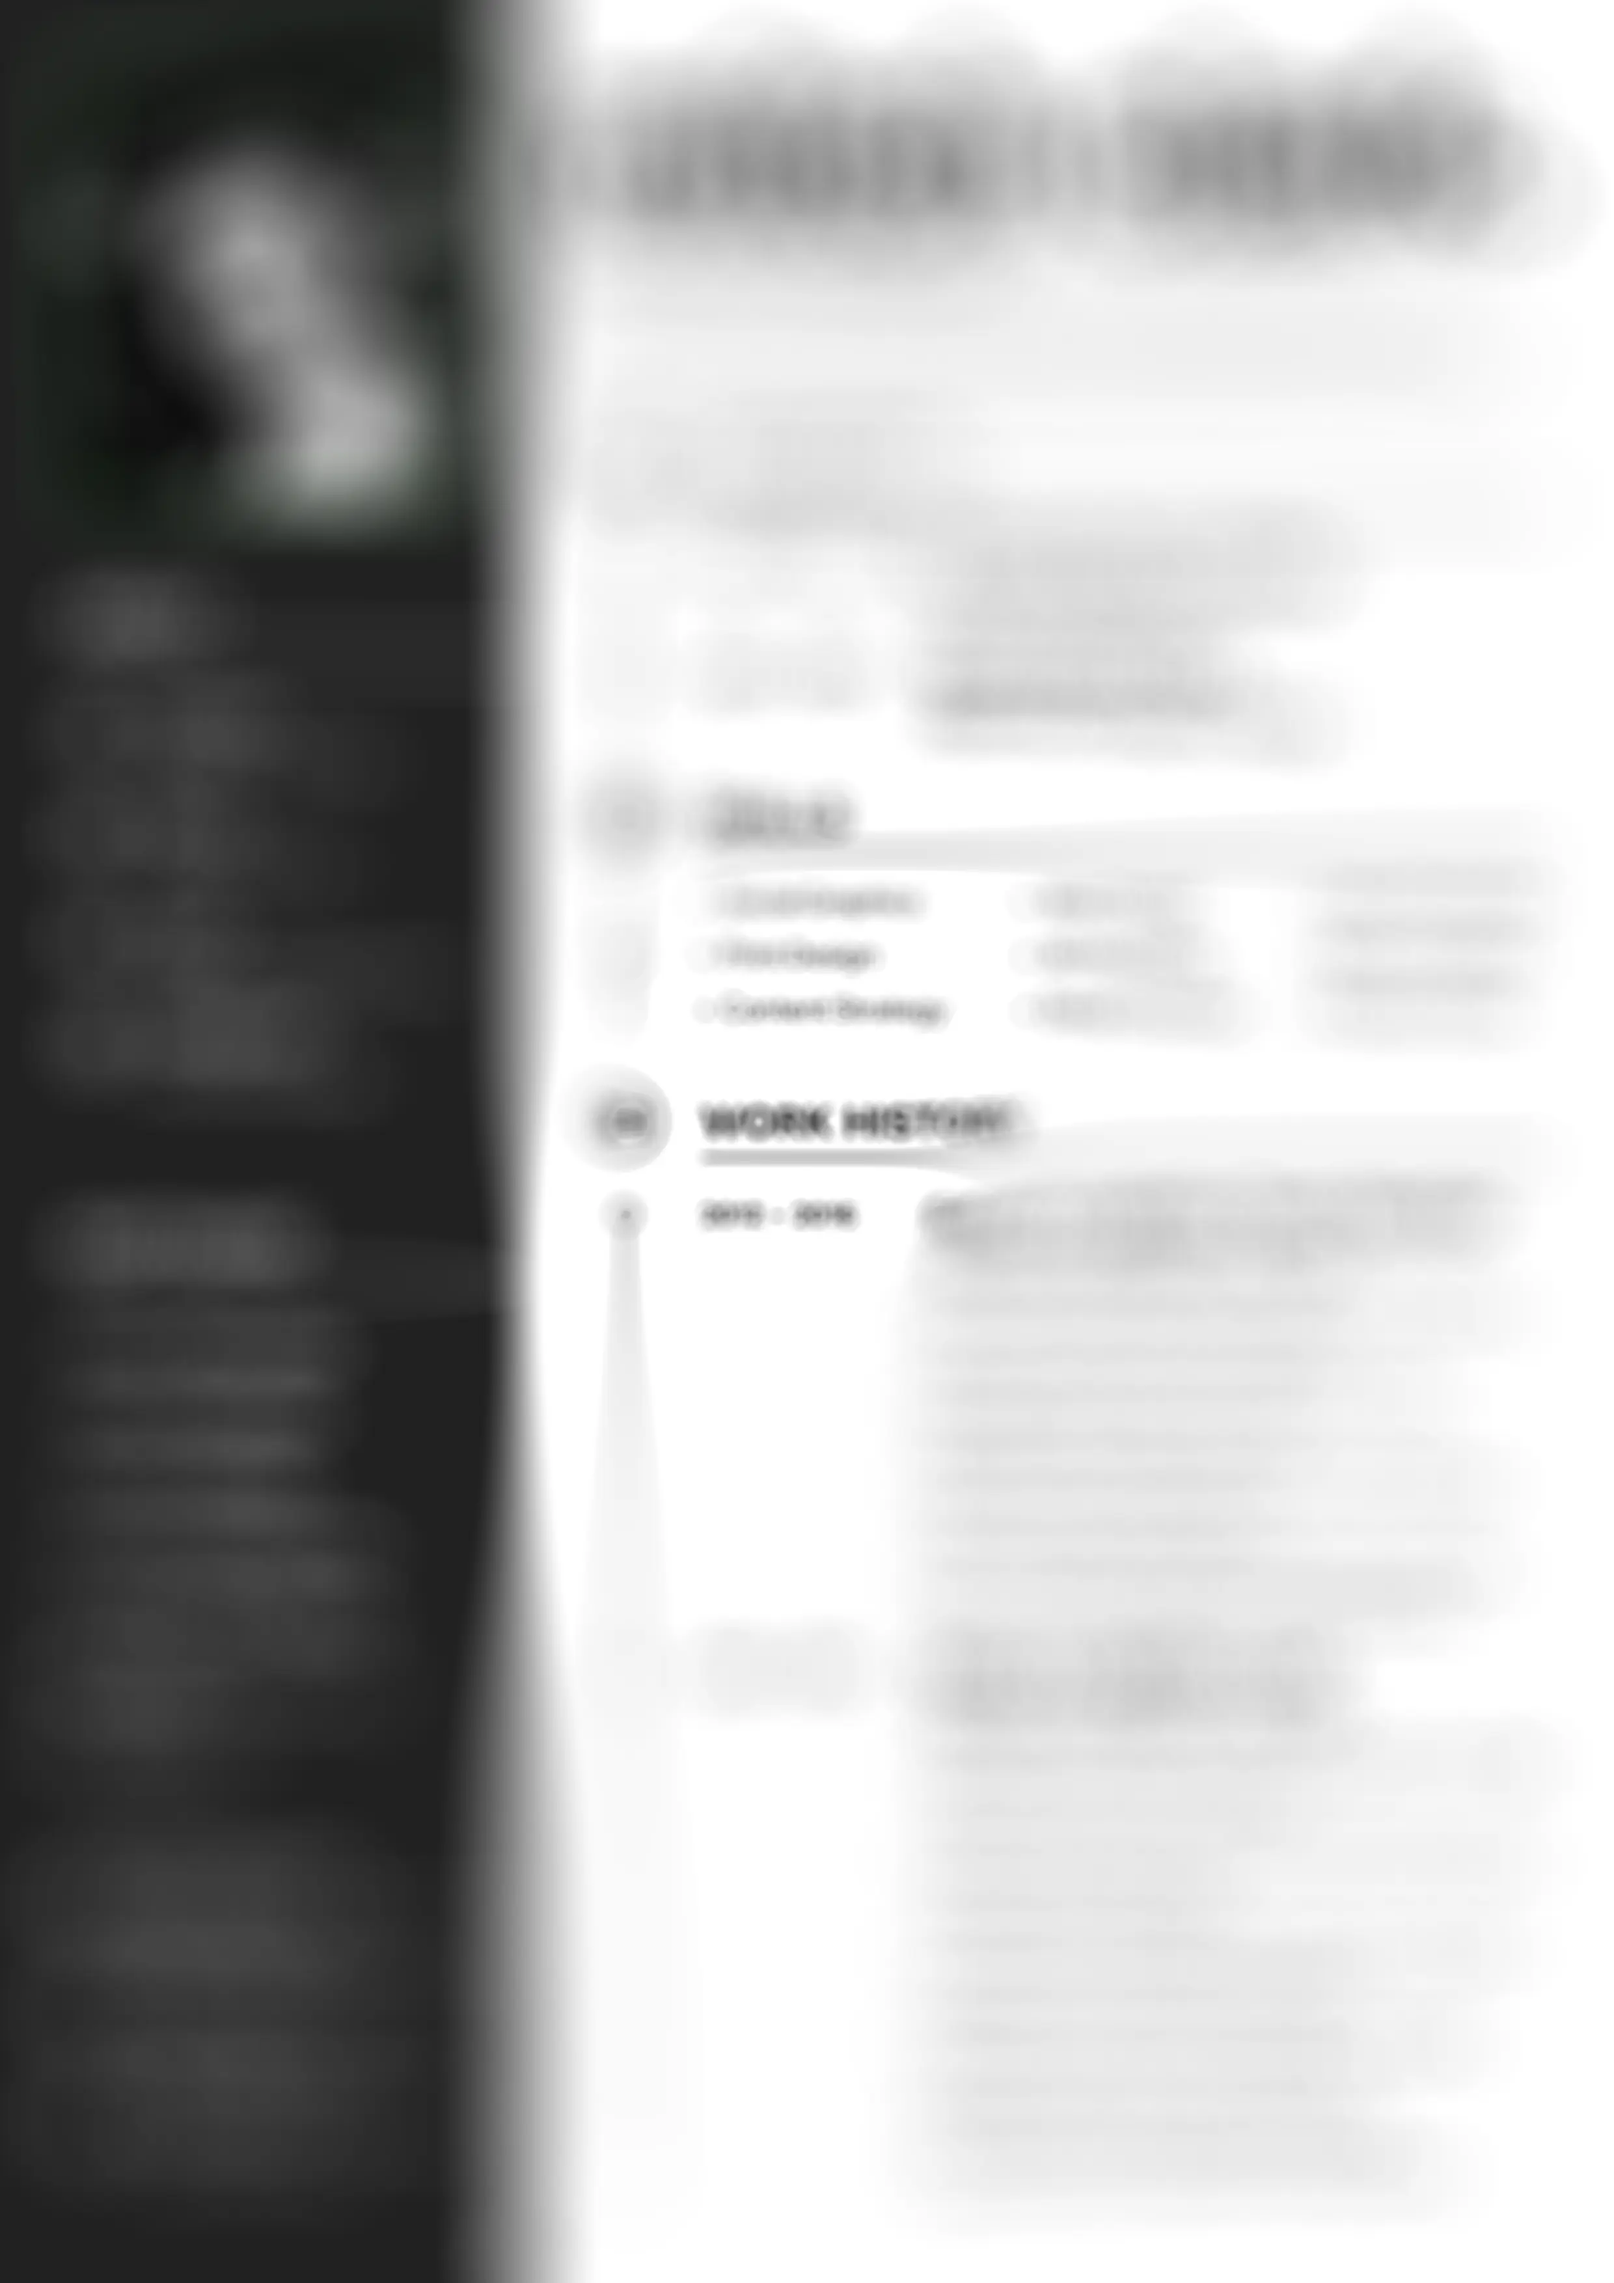
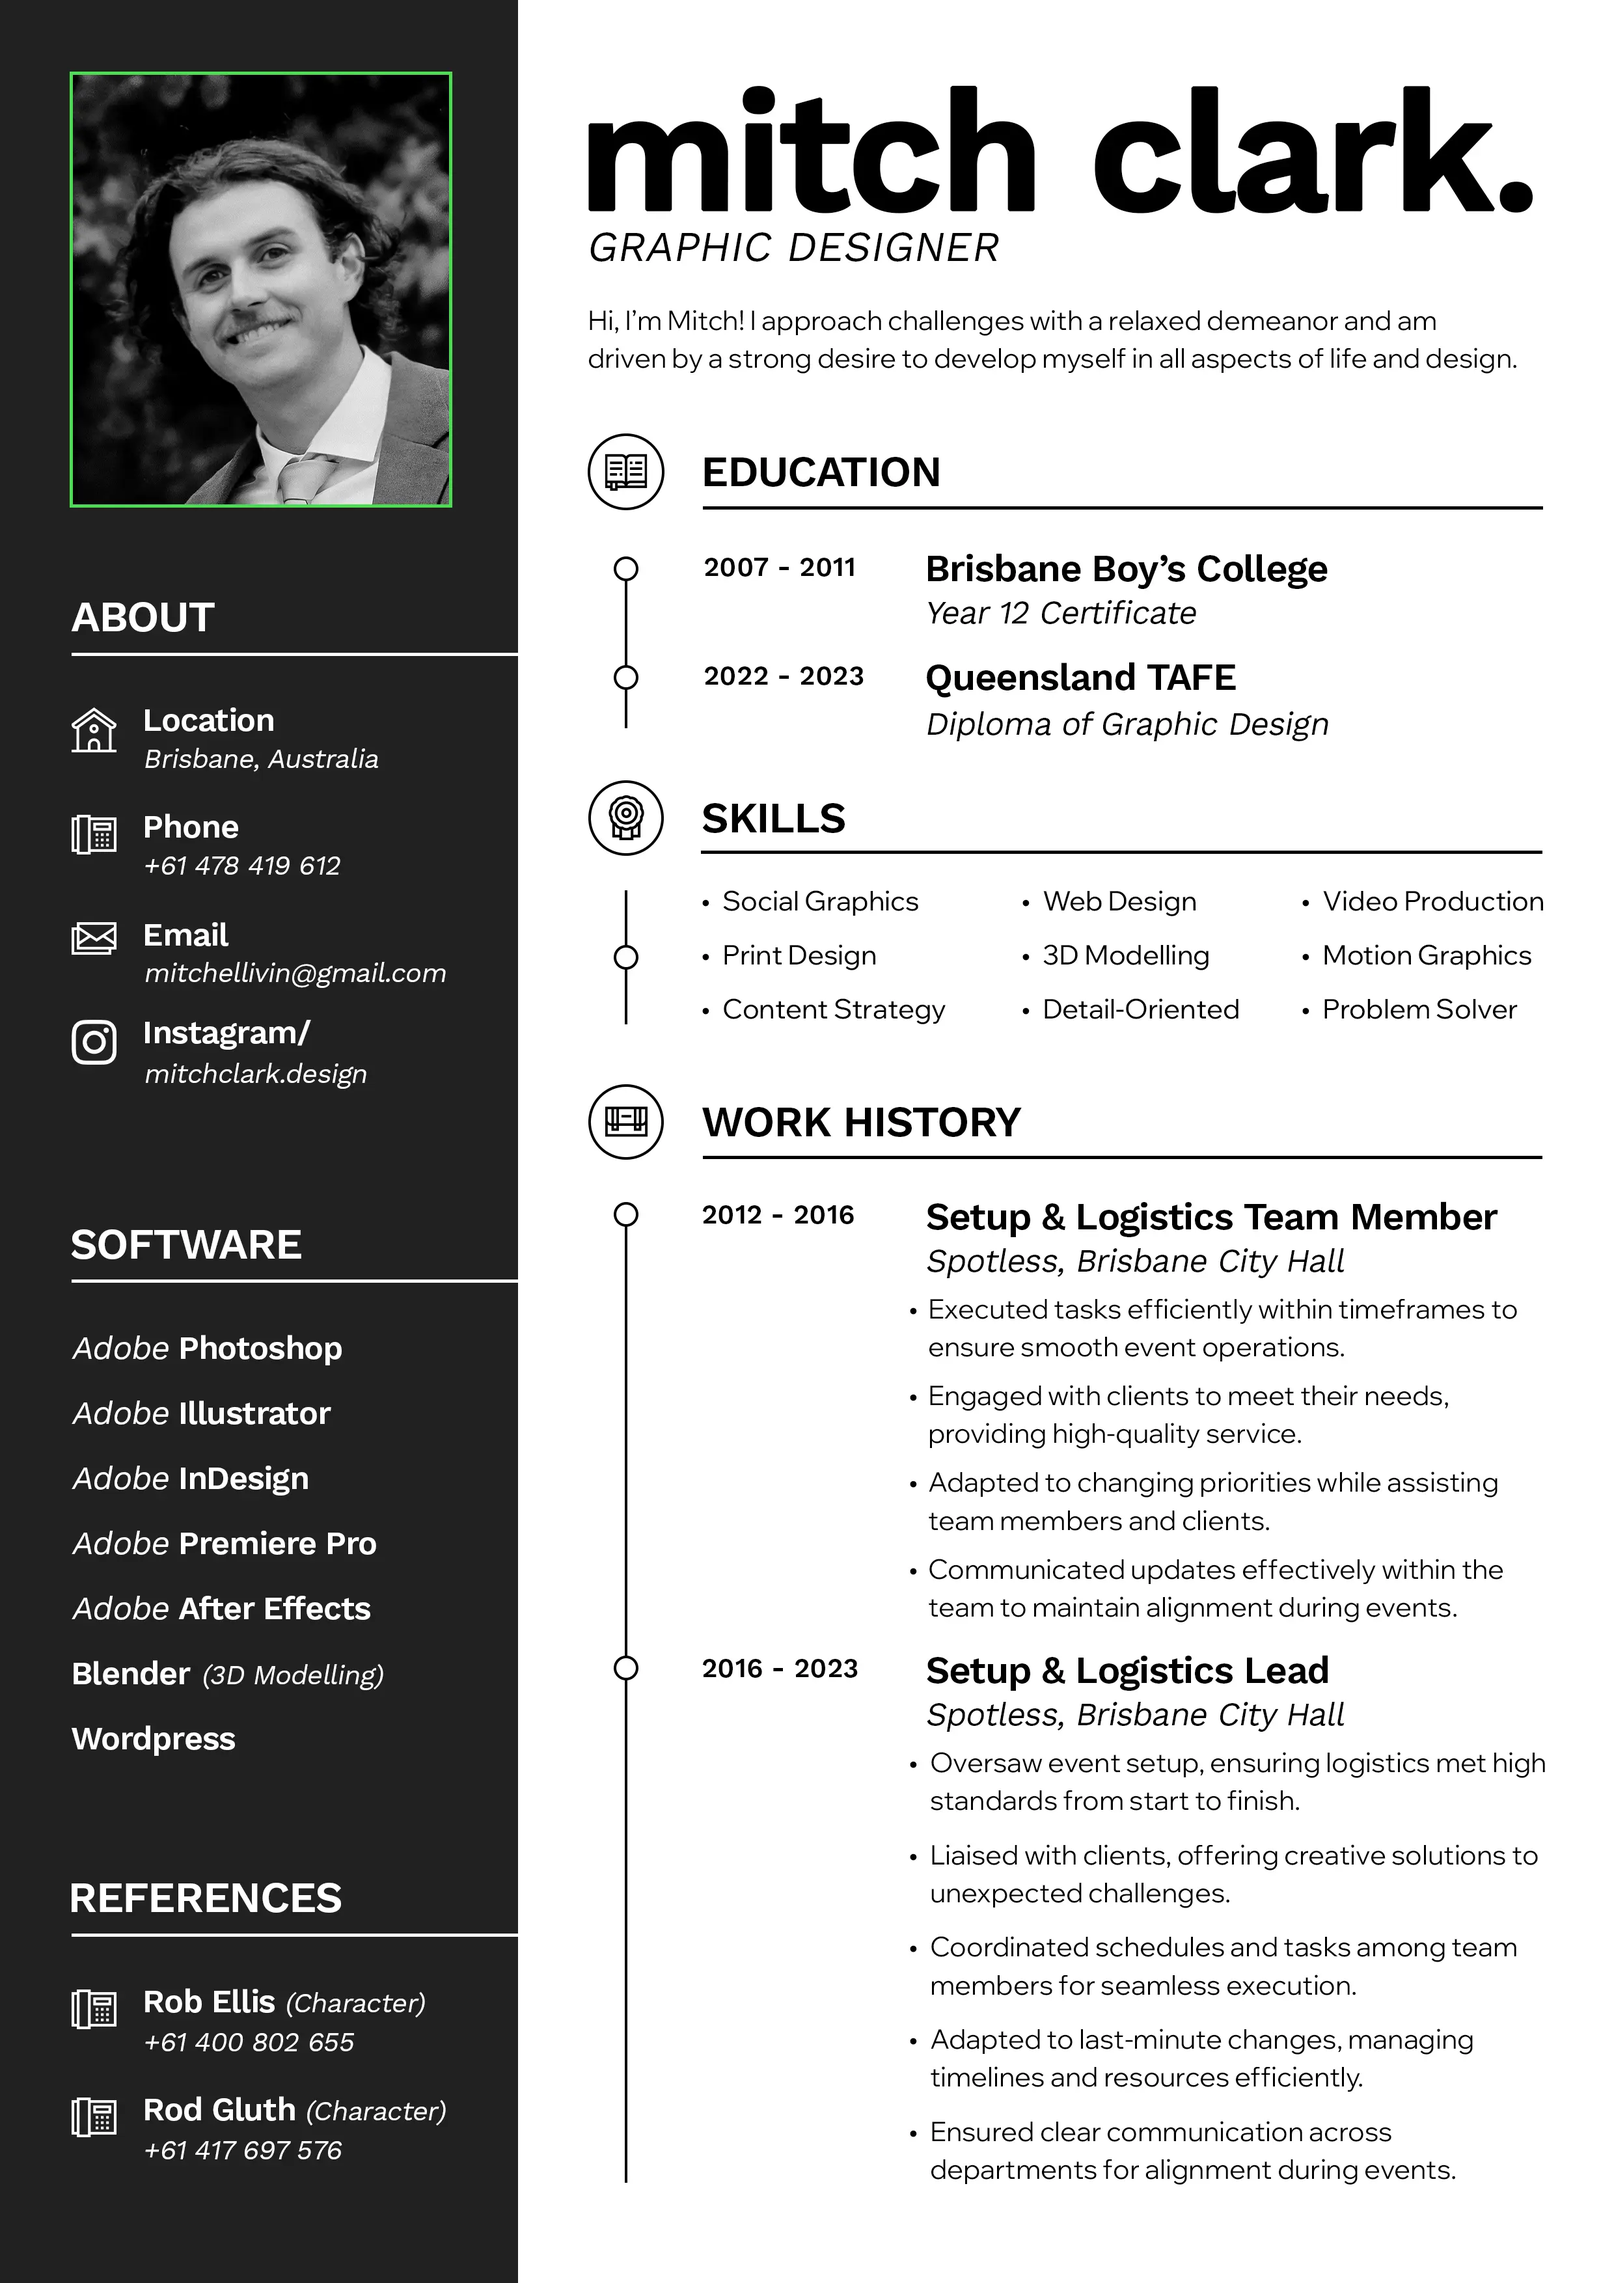
v1.0

diff --git a/src/apps/about/index.html b/src/apps/about/index.html
@@ -162,26 +162,28 @@
             <hr class="skills-divider skills-divider--between-sections">
             <h3 class="subtitle_header"><img src="../../../assets/apps/about/skills.webp" alt="Skills Icon" class="heading-icon">Skills</h3>
             <div class="skills-grid subtitle">
-              <div>Typography</div>
-              <div>Branding</div>
-              <div>Illustration</div>
-              <div>UI/UX Design</div>
-              <div>Layout Design</div>
-              <div>Color Theory</div>
-              <div>Photo Editing</div>
-              <div>Creative Direction</div>
+              <div data-software="photoshop,illustrator">Social Graphics</div>
+              <div data-software="wordpress,vscode">Web Design</div>
+              <div data-software="premierepro,aftereffects">Video Production</div>
+              <div data-software="indesign,photoshop,illustrator">Print Design</div>
+              <div data-software="blender">3D Modelling</div>
+              <div data-software="illustrator,aftereffects">Motion Graphics</div>
+              <div data-software="vscode">AI-Integrated Coding</div>
+              <div data-software="all">Detail-Oriented</div>
+              <div data-software="all">Problem Solver</div>
             </div>
             <hr class="skills-divider skills-divider--before-software">
             <h3 class="subtitle_header"><img src="../../../assets/apps/about/software.webp" alt="Software Icon" class="heading-icon">Software</h3>
             <ul class="software-grid subtitle">
-              <li>Adobe Photoshop</li>
-              <li>Adobe Illustrator</li>
-              <li>Adobe InDesign</li>
-              <li>Figma</li>
-              <li>Adobe XD</li>
-              <li>Affinity Designer</li>
-              <li>Procreate</li>
-              <li>Sketch</li>
+              <li data-software="photoshop">Photoshop</li>
+              <li data-software="illustrator">Illustrator</li>
+              <li data-software="premierepro">Premiere Pro</li>
+              <li data-software="aftereffects">After Effects</li>
+              <li data-software="indesign">InDesign</li>
+              <li>Lightroom</li>
+              <li data-software="blender">Blender</li>
+              <li data-software="vscode">VSCode</li>
+              <li data-software="wordpress">Wordpress</li>
             </ul>
           </div>
         </div>

diff --git a/src/apps/about/style.css b/src/apps/about/style.css
@@ -53,7 +53,9 @@ body {
 
 .main {
   width: 100%;
+  max-width: 700px;
   padding-left: 24px;
+  padding-top: 24px;
   box-sizing: border-box;
   position: relative;
 }
@@ -207,8 +209,11 @@ body {
 
 .main {
   width: 100%;
+  max-width: 700px;
   padding-left: 24px;
+  padding-top: 24px;
   box-sizing: border-box;
+  position: relative;
 }
 
 .left-panel-title {
@@ -279,14 +284,8 @@ body, body * {
 
 .main {
   width: 100%;
-  max-width: 100%;
-  margin: 0;
+  padding-left: 24px;
   box-sizing: border-box;
-  padding: 24px 24px 24px 24px;
-  font-family: Tahoma, Segoe UI, Verdana, Arial, sans-serif;
-  color: #fff;
-  display: flex;
-  flex-direction: column;
 }
 
 body, .scroll-content {
@@ -322,8 +321,7 @@ body, .scroll-content {
   flex-direction: row;
   gap: 20px;
   justify-content: flex-start;
-  padding-left: 0;
-  padding-right: 0;
+  padding-right: 24px;
   max-width: 100%;
   box-sizing: border-box;
 }
@@ -407,6 +405,21 @@ body, .scroll-content {
   display: block;
   margin-bottom: 0;
   overflow-wrap: break-word;
+  text-shadow: 1px 1px 0 #000, 0 0px 1px #000;
+  opacity: 1;
+  transition: opacity 0.25s, background 0.18s, border-color 0.18s, font-weight 0.13s;
+}
+
+.skills-grid > div:hover,
+.software-grid li:hover,
+.software-grid li.force-hover {
+  background: rgba(174,231,255,0.28);
+  border-color: #fff;
+  color: #fff;
+  font-weight: bold;
+  opacity: 1;
+  transition: opacity 0.25s, background 0.18s, border-color 0.18s, font-weight 0.13s;
+  cursor: default;
 }
 
 .software-grid {
@@ -415,7 +428,7 @@ body, .scroll-content {
   gap: 10px;
   list-style: none;
   padding: 0;
-  margin-bottom: 0;
+  margin-bottom: 32px;
   max-width: 100%;
   width: 100%;
 }
@@ -848,5 +861,12 @@ h3.subtitle_header + .software-grid {
 
 .left-panel__card__row + .left-panel__card__row {
   margin-top: 1px;
+}
+
+.software-highlight {
+  background: rgba(174,231,255,0.18);
+  border-color: #aee7ff;
+  color: #fff;
+  transition: background 0.18s, border-color 0.18s;
 }
 

diff --git a/src/apps/about/script.js b/src/apps/about/script.js
@@ -47,3 +47,32 @@ document.addEventListener('DOMContentLoaded', () => {
     });
   });
 });
+
+// Highlight corresponding software on skill hover
+function setupSkillSoftwareHighlight() {
+  const skills = document.querySelectorAll('.skills-grid [data-software]');
+  const softwares = document.querySelectorAll('.software-grid [data-software]');
+  skills.forEach(skill => {
+    skill.addEventListener('mouseenter', () => {
+      const keys = skill.getAttribute('data-software').split(',').map(k => k.trim());
+      if (keys.includes('all')) {
+        softwares.forEach(soft => soft.classList.add('force-hover'));
+      } else {
+        softwares.forEach(soft => {
+          if (keys.includes(soft.getAttribute('data-software'))) {
+            soft.classList.add('force-hover');
+          }
+        });
+      }
+    });
+    skill.addEventListener('mouseleave', () => {
+      softwares.forEach(soft => soft.classList.remove('force-hover'));
+    });
+  });
+}
+
+if (document.readyState === 'loading') {
+  document.addEventListener('DOMContentLoaded', setupSkillSoftwareHighlight);
+} else {
+  setupSkillSoftwareHighlight();
+}

diff --git a/src/scripts/gui/windowManager.js b/src/scripts/gui/windowManager.js
@@ -1101,11 +1101,11 @@ class WindowManager {
                 break;
             case "center-right":
                 leftPos = viewportWidth - windowWidth - (posConfig.offsetX || 0);
-                topPos = Math.max(0, (adjustedViewportHeight - windowHeight) / 2);
+                topPos = Math.max(0, (adjustedViewportHeight - windowHeight) / 2 + (posConfig.offsetY || 0));
                 break;
             case "center-left":
                 leftPos = posConfig.offsetX || 0;
-                topPos = Math.max(0, (adjustedViewportHeight - windowHeight) / 2);
+                topPos = Math.max(0, (adjustedViewportHeight - windowHeight) / 2 + (posConfig.offsetY || 0));
                 break;
             case "left-of-browser":
                 const browserWidth = 1000;

diff --git a/src/scripts/utils/programRegistry.js b/src/scripts/utils/programRegistry.js
@@ -118,7 +118,7 @@ const programData = {
         { 
           dimensions: { width: 800, height: 600 }, 
           statusBarText: "Viewing information about Mitchell Ivin",
-          position: { type: "custom", align: "center-left", offsetX: 140 }
+          position: { type: "custom", align: "center-left", offsetX: 120, offsetY: -50 }
         }
     ),
     "contact": createProgram(
@@ -158,7 +158,7 @@ const programData = {
         { 
           dimensions: { width: 1030, height: 780 }, 
           statusBarText: "Browsing project portfolio",
-          position: { type: "custom", align: "center-right", offsetX: 300 }
+          position: { type: "custom", align: "center-right", offsetX: 340, offsetY: -50 }
         }
     ),
 
